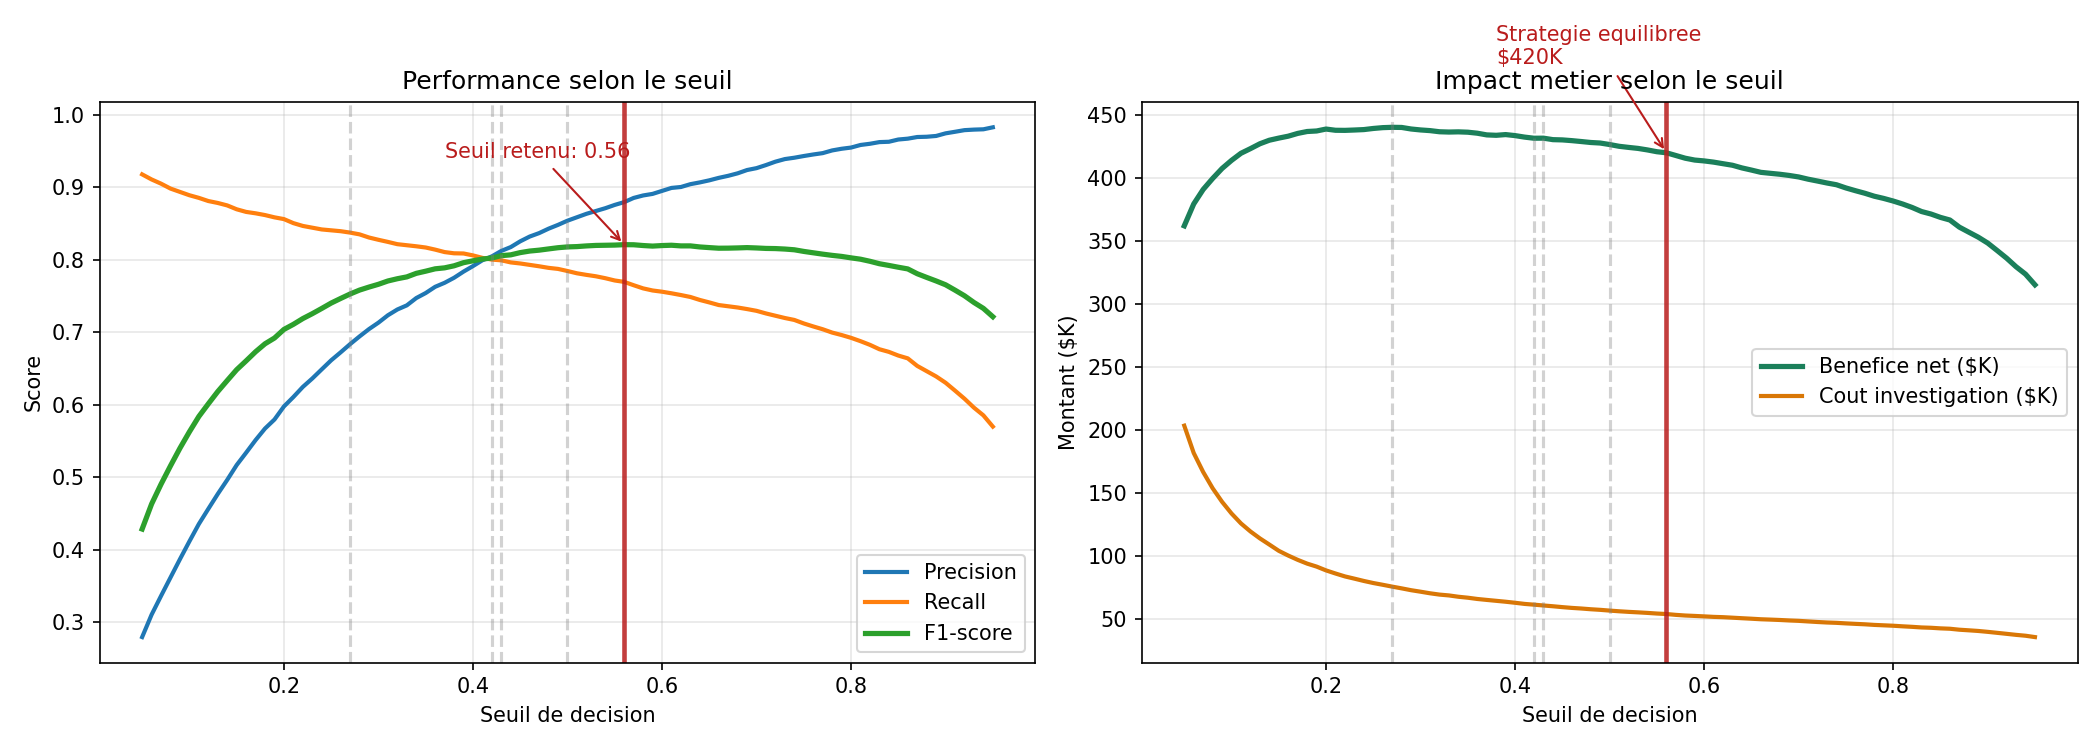
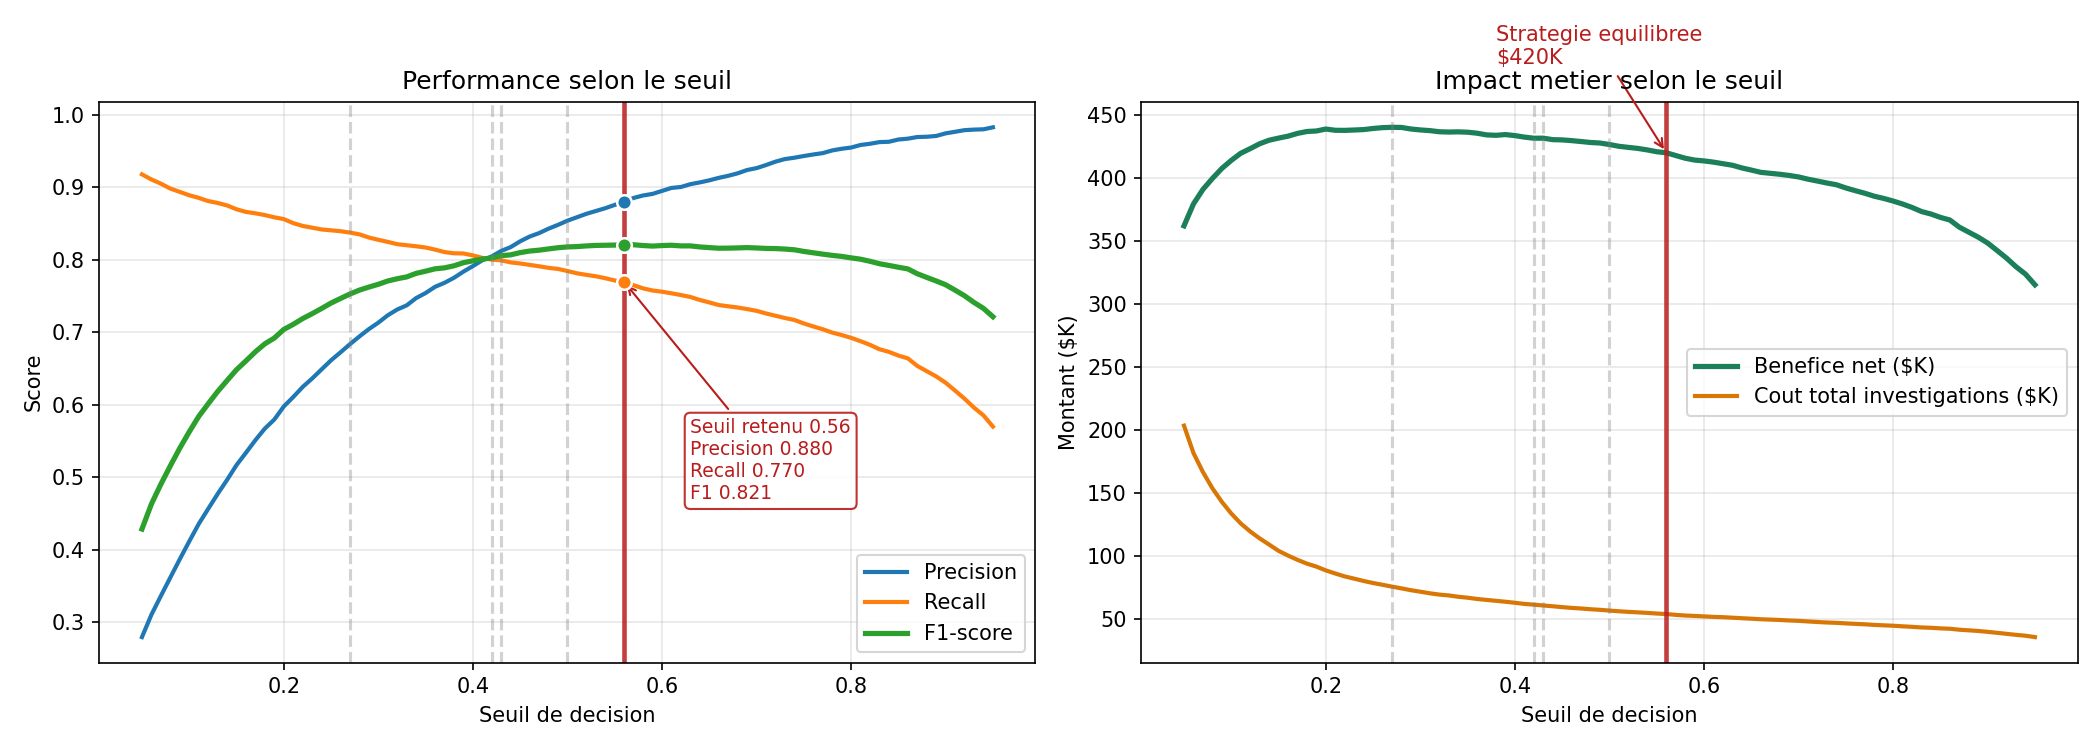
Fiabiliser les rapports KPI et la lisibilite du graphe de seuil
business_analysis.py definissait deux fois kpi_impact_modele. La seconde
masquait silencieusement une version obsolete cablee sur le MLP V2
(recall 0.4319). Fonction morte supprimee et ordre des appels corrige :
KPI 7 etait imprime apres KPI 8 dans kpi_report.txt. Valeurs metier
inchangees.

base_threshold_tuning.png : au seuil retenu les trois courbes sont
resserrees entre 0.77 et 0.88 et la fleche de l'annotation semblait
designer la courbe de precision, laissant lire un recall superieur a
0.80. Chaque metrique est desormais marquee par un point avec ses
valeurs (P 0.880, R 0.770, F1 0.821). Legende du cout precisee en
"cout total investigations" pour la distinguer du cout unitaire par cas
saisi dans le simulateur.

scoring_input.txt etait une note d'utilisation posee au milieu des
rapports de resultats, deplacee vers src/scoring_input_HOWTO.txt.

diff --git a/capstone-ssl-fraud-detection/src/business_analysis.py b/capstone-ssl-fraud-detection/src/business_analysis.py
@@ -395,47 +395,6 @@ def kpi_devices(df, report):
     print("  ✓ business_devices.png")
 
 
-def kpi_impact_modele(df, report):
-    """KPI 7 : Quel serait l'impact métier du modèle SSL ?"""
-    print("\n─── KPI 7 : IMPACT MÉTIER DU MODÈLE ───")
-
-    fraud = df[df["isFraud"] == 1]
-    total_fraud_amount = fraud["TransactionAmt"].sum()
-    n_frauds = len(fraud)
-
-    # Résultats V2
-    recall_v2 = 0.4319
-    precision_v2 = 0.5047
-    n_detected = int(n_frauds * recall_v2)
-    amount_saved = total_fraud_amount * recall_v2
-    n_false_alerts = int(n_detected / precision_v2) - n_detected
-
-    # Coût estimé d'une investigation manuelle (industrie bancaire)
-    cost_per_investigation = 15  # dollars
-    cost_investigations = (n_detected + n_false_alerts) * cost_per_investigation
-
-    report.append("\n" + "=" * 55)
-    report.append("KPI 7 : IMPACT MÉTIER DU MODÈLE SSL")
-    report.append("=" * 55)
-    report.append(f"  Fraudes dans le dataset       : {n_frauds:,}")
-    report.append(f"  Montant total frauduleux      : ${total_fraud_amount:,.0f}")
-    report.append(f"")
-    report.append(f"  Avec notre modèle SSL (recall={recall_v2:.0%}) :")
-    report.append(f"    Fraudes détectées            : {n_detected:,} / {n_frauds:,}")
-    report.append(f"    Montant sauvé (estimé)       : ${amount_saved:,.0f}")
-    report.append(f"    Fausses alertes              : {n_false_alerts:,}")
-    report.append(f"    Coût d'investigation         : ${cost_investigations:,.0f}")
-    report.append(f"    Bénéfice net estimé          : ${amount_saved - cost_investigations:,.0f}")
-    report.append(f"")
-    report.append(f"  Sans modèle (tout manuel) :")
-    report.append(f"    Coût si on vérifie tout      : ${len(df) * cost_per_investigation:,.0f}")
-    report.append(f"    Coût si on ne vérifie rien   : ${total_fraud_amount:,.0f} de pertes")
-
-    print(f"  Fraudes détectées : {n_detected:,} / {n_frauds:,}")
-    print(f"  Montant sauvé    : ${amount_saved:,.0f}")
-    print(f"  Bénéfice net     : ${amount_saved - cost_investigations:,.0f}")
-
-
 def kpi_desequilibre(df, report):
     """KPI 8 : Visualisation du déséquilibre — la raison du SSL."""
     print("\n─── KPI 8 : DÉSÉQUILIBRE DES CLASSES ───")
@@ -548,8 +507,8 @@ def run():
     kpi_temporel(df, report)
     kpi_emails(df, report)
     kpi_devices(df, report)
-    kpi_desequilibre(df, report)
     kpi_impact_modele(df, report)
+    kpi_desequilibre(df, report)
 
     # Sauvegarder le rapport
     report_path = os.path.join(RESULTS_DIR, "kpi_report.txt")

diff --git a/capstone-ssl-fraud-detection/src/threshold_tuning_base.py b/capstone-ssl-fraud-detection/src/threshold_tuning_base.py
@@ -133,7 +133,7 @@ def plot_thresholds(analysis, scenarios):
     axes[1].plot(
         analysis["threshold"],
         analysis["investigation_cost"] / 1000,
-        label="Cout investigation ($K)",
+        label="Cout total investigations ($K)",
         linewidth=2,
         color="#D97706",
     )
@@ -152,13 +152,26 @@ def plot_thresholds(analysis, scenarios):
 
     if RECOMMENDED_SCENARIO in scenarios:
         row = scenarios[RECOMMENDED_SCENARIO]
+        # Les trois courbes sont tres resserrees autour du seuil retenu :
+        # on marque chaque metrique par un point et on donne les valeurs,
+        # sinon la fleche seule laisse croire qu'elle designe une courbe.
+        for metric, color in (("precision", "#1f77b4"), ("recall", "#ff7f0e"), ("f1", "#2ca02c")):
+            axes[0].plot(
+                row["threshold"], row[metric], "o", color=color, markersize=7,
+                markeredgecolor="white", markeredgewidth=1.2, zorder=5,
+            )
         axes[0].annotate(
-            f"Seuil retenu: {row['threshold']:.2f}",
-            xy=(row["threshold"], row["f1"]),
-            xytext=(row["threshold"] - 0.19, row["f1"] + 0.12),
+            f"Seuil retenu {row['threshold']:.2f}\n"
+            f"Precision {row['precision']:.3f}\n"
+            f"Recall {row['recall']:.3f}\n"
+            f"F1 {row['f1']:.3f}",
+            xy=(row["threshold"], row["recall"]),
+            xytext=(row["threshold"] + 0.07, row["recall"] - 0.30),
             arrowprops={"arrowstyle": "->", "color": "#B91C1C"},
             color="#B91C1C",
-            fontsize=10,
+            fontsize=9,
+            bbox={"boxstyle": "round", "facecolor": "white",
+                  "edgecolor": "#B91C1C", "alpha": 0.9},
         )
         axes[1].annotate(
             f"Strategie equilibree\n${row['net_benefit']/1000:.0f}K",
